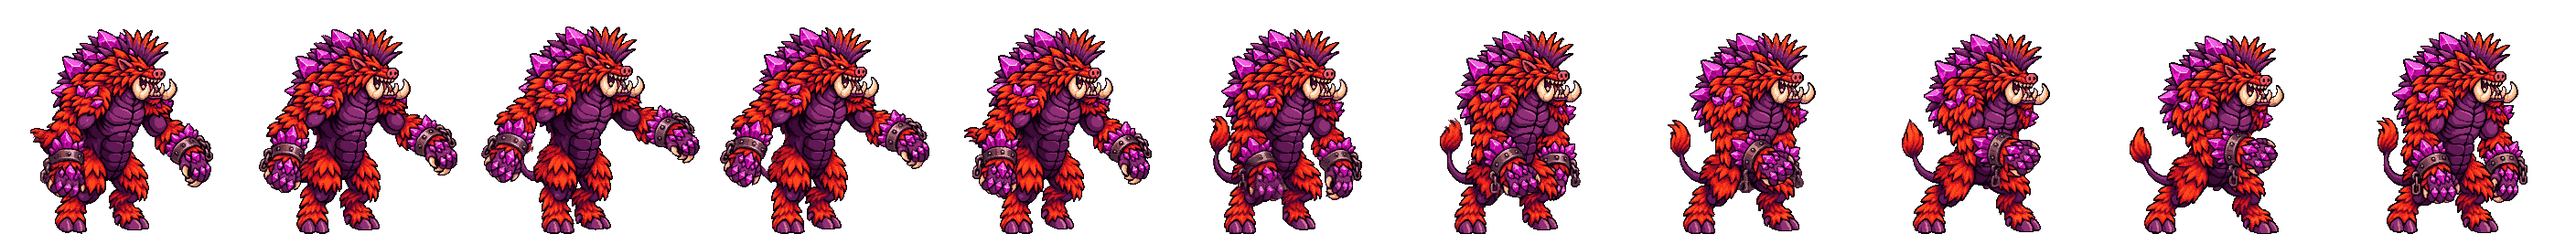
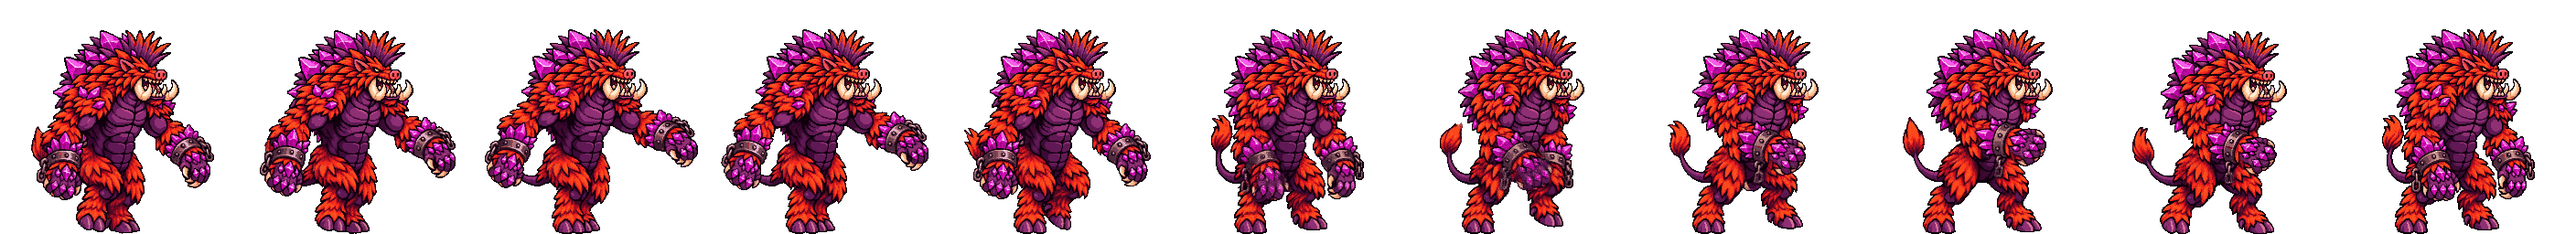
Fix Kaiban Stage 3 walk limp: full step cycle for both feet
The legs were swung about the hips from their rest angles, and the back
leg rests angled backward, so only the front leg made a real stride.
tools/kaiban_s3_walk_poses.py now gives each foot a step cycle under its
hip (planted and sliding back along the ground, then lifted and carried
forward), half a cycle apart and opposite the same-side arm, with knees
from two-bone IK and the hips sinking at full stride. Arm poses and seed
unchanged. Regenerated with /animate-with-skeleton-v3 (3 generations);
the smeared 11th frame was cut again, so it stays 11 frames at 14 fps.

Claude-Session: https://claude.ai/code/session_01SJ9dCw3Kwpo6mPYRbXH7ph

diff --git a/tools/kaiban_s3_walk_poses.py b/tools/kaiban_s3_walk_poses.py
@@ -1,35 +1,42 @@
 #!/usr/bin/env python3
 """Script the skeleton poses for Kaiban Stage 3's walk (PixelLab /animate-with-skeleton-v3).
 
-Usage: python3 tools/kaiban_s3_walk_poses.py DIR FRAMES ARM_DEG LEG_DEG   (the strip shipped with: DIR 12 45 14)
+Usage: python3 tools/kaiban_s3_walk_poses.py DIR FRAMES ARM_DEG LEG_DEG [STRIDE_PX]   (shipped: DIR 12 45 0 20; LEG_DEG unused)
 
 DIR holds skel.json (the /estimate-skeleton result for kaiban-s3.png; a copy is tools/kaiban-s3-skeleton.json). Writes
 DIR/poses.json ({first, frames}: first_frame_keypoints and one 18-joint skeleton per frame) and DIR/poses_sheet.png, a
 stick-figure preview over the base, so poses can be checked before paying for a generation. Both arms swing +-ARM_DEG
-about the shoulders in opposite phase, the legs stride +-LEG_DEG opposite the arms with a knee bend on the forward swing,
-the body bobs, and the lowest ankle stays on the ground line. Run from the repo root.
+about the shoulders in opposite phase, each foot runs a step cycle +-STRIDE_PX under its hip opposite the same-side arm
+(planted and sliding back, then lifted and carried forward) with knees from two-bone IK, the hips sink at full stride, and the lowest ankle stays on the ground line. Run from the repo root.
 """
 import json, math, sys
 S=sys.argv[1]; N=int(sys.argv[2]); A=math.radians(float(sys.argv[3])); B=math.radians(float(sys.argv[4]))
 kp=json.load(open(f'{S}/skel.json'))['keypoints']
 base={p['label']:[p['x']*256,p['y']*256] for p in kp}; z={p['label']:int(p['z_index']) for p in kp}
 base['LEFT LEG']=[148,244]; base['RIGHT LEG']=[78,244]   # ankles down on the hooves
+STR,H=float(sys.argv[5]) if len(sys.argv)>5 else 20,10   # stride half-length and swing-foot lift, px
+FOOT={'LEFT':140,'RIGHT':92}   # mid-stride foot x under each hip (the three-quarter view keeps them apart)
 def rot(p,c,t):  # swing forward (+x) by t about c, y down
     dx,dy=p[0]-c[0],p[1]-c[1]; return [c[0]+dx*math.cos(t)+dy*math.sin(t), c[1]-dx*math.sin(t)+dy*math.cos(t)]
 frames=[]
 for i in range(1,N+1):
     ph=2*math.pi*i/N; q={k:v[:] for k,v in base.items()}
-    bob=2.5*(1-math.cos(2*ph))/2  # dips twice per cycle (each footfall)... actually rises mid-stride
+    bob=0
     for side,sgn in (('LEFT',1),('RIGHT',-1)):
         t=sgn*A*math.sin(ph)
         sh=q[f'{side} SHOULDER']; el=rot(q[f'{side} ELBOW'],sh,t); wr=rot(q[f'{side} ARM'],sh,t)
         wr=rot(wr,el,0.15*max(t,0))   # forearm leads a little on the forward swing
         q[f'{side} ELBOW'],q[f'{side} ARM']=el,wr
-        # legs opposite to the same-side arm
-        lt=-sgn*B*math.sin(ph); hip=q[f'{side} HIP']
-        kn=rot(q[f'{side} KNEE'],hip,lt); an=rot(q[f'{side} LEG'],hip,lt)
-        bend=math.radians(20)*max(0,-sgn*math.cos(ph))   # knee bends while that leg swings forward
-        an=rot(an,kn,-bend); q[f'{side} KNEE'],q[f'{side} LEG']=kn,an
+        # Legs: each foot runs a real step cycle under its hip, opposite the same-side arm. Stance (half the cycle): planted on
+        # the ground line, sliding back. Swing: lifted and carried forward. Knees come from two-bone IK, bending forward.
+        d=-sgn*STR*math.sin(ph); lift=H*max(0,-sgn*math.cos(ph))
+        hip=q[f'{side} HIP']; L1=math.dist(base[f'{side} HIP'],base[f'{side} KNEE']); L2=math.dist(base[f'{side} KNEE'],base[f'{side} LEG'])
+        hip[1]+=2.5*abs(math.sin(ph))   # hips sink at full stride, rise as the legs pass
+        ft=[FOOT[side]+d,244-lift]; D=min(math.dist(hip,ft),L1+L2-0.5)
+        ux,uy=(ft[0]-hip[0])/math.dist(hip,ft),(ft[1]-hip[1])/math.dist(hip,ft)
+        ang=math.acos(max(-1,min(1,(L1*L1+D*D-L2*L2)/(2*L1*D))))
+        kx,ky=ux*math.cos(ang)+uy*math.sin(ang), -ux*math.sin(ang)+uy*math.cos(ang)   # rotate toward +x (knee forward)
+        q[f'{side} KNEE']=[hip[0]+L1*kx,hip[1]+L1*ky]; q[f'{side} LEG']=[hip[0]+D*ux,hip[1]+D*uy]
     for k in q: q[k][1]-=bob
     # keep the lowest ankle on the ground line
     low=max(q['LEFT LEG'][1],q['RIGHT LEG'][1]); 

diff --git a/README.md b/README.md
@@ -61,7 +61,7 @@ Score is earned points minus actual HP damage penalty, including healed damage. 
 
 **Kaiban Stage 2 art (in progress, registered as `stages[2]`):** `kaiban-s2.png` is a 200x135 base at x=28 (scale 200/256, anchor 128), with `kaiban-s2-idle`/`kaiban-s2-walk` 8-frame loops and the climb set. The light combo is gorilla-style overhead punching, 8-frame 256x192 strips generated with PixelLab from the base shifted 24px left (sprite at x=4, so draw with scale 200/256, anchor 4+128*200/256 = 104) so the forward slams stay in the frame, each ending on that base pose: `kaiban-s2-light1` rears up, swings the near fist overhead and hammers it into the street in front of the snout (impact arc on frame 3, 24 fps); `kaiban-s2-light2` keeps the near fist planted while the far fist comes up behind the head and drops in front of it (dust burst on frame 5, 21 fps; seed 7, the default seed left the arm floating over the back); `kaiban-s2-light3` stands up on the hind legs and double-fist smashes both fists down (dust and streaks on frame 5, 20 fps). Each strip got `fill_pinholes.py`, `remove_specks.py` (MAX 40) and the trailing dust bits off the last frame. The heavy is a tusk uppercut, keeping Stage 1's gore rather than repeating light3's fist smash: one 16-frame generation (seed 7) from the same left-shifted base, ending on it, is cut into `kaiban-s2-heavy-rear` (frames 0-4: hunches low with both fists cocked back, 5 frames at 20 fps) and `kaiban-s2-heavy-slam` (frames 9-15 plus the base: lunging tusk uppercut, slash arc on the first three frames, 8 frames at 16 fps), and `kaiban-s2-heavy-hold` is a 4-frame shudder loop (with breath puffs, 10 fps) generated from the rear's last frame. Timing matches the Stage 1 heavy, so combat is unchanged; rear/slam got `fill_pinholes.py` and `remove_specks.py` MAX 40, the hold MAX 4 so the breath puffs survive. The ranged `kaiban-s2-ranged-stand` (same shifted base, closed on it, seed 7) is a gorilla underhand scoop for the Debris Shotgun: a short lean, then he rises and digs both fists into the street (rubble in the fists on frame 4), heaves them up and forward to fling it on impact frame 5 (18 fps, Stage 1's timing), follows through and settles onto all fours; every detached rock on frames 5-7 was erased (largest shape kept) since the game draws the projectiles, then `fill_pinholes.py` and `remove_specks.py` (MAX 40). The crouched shot still borrows Stage 1's. The jump (unshifted base, `KB2_NATIVE`, seed 7) is `kaiban-s2-jump-rise` (9 frames: crouches on the knuckles and springs off all fours, 24 fps), `kaiban-s2-jump-air` (frames 1-4 of a loop generated from the rise's last frame with it as the end pose, tucked limbs, 8 fps) and `kaiban-s2-jump-land` (5 frames from the same airborne pose to the base: fists-first squash, 20 fps); all bottom-aligned with `bottom_align.py`, then `fill_pinholes.py` and `remove_specks.py` (MAX 40, the landing dust). Grab/carry/throw are 256x256 strips (the base padded to 256 tall with the feet on the bottom row, so `KB2_NATIVE` still lines up) since the overhead lift reaches the top of the frame, all generated without any object: `kaiban-s2-grab` (9 frames, 22 fps, seed 0) dips with the fists at the street, rises onto the hind legs and presses both fists straight up overhead; `kaiban-s2-carry` (4-frame loop from the grab's last frame, closed on it) stands upright straining with the fists up; `kaiban-s2-carry-walk` (8-frame loop, closed the same way) lumbers forward upright on the hind legs; `kaiban-s2-throw` (8 of 9 generated frames, the near-duplicate frame 1 dropped so the swing arcs land on frame 1 as the prop launches on the key press) whips both arms forward and down and drops back onto all fours, ending on the base pose. `hold` points: frames 0-3 of the grab keep the prop on the street in front of the near fist, then they sit on top of the fists. Each strip got `fill_pinholes.py` and `remove_specks.py` (MAX 40). The climb set (256x256, generated from the base dropped into a 256x256 frame) clings upright with the fists gripping the wall line at frame x=168 (the 24-unit hitbox edge at this scale), feet braced on the wall and the snout and tusks up: `kaiban-s2-climb-grab` rears up and jumps onto the wall (seed 5; earlier prompts reached the arms straight out, too wide for the wall line, or hid the face behind an overhead arm), `kaiban-s2-climb` is a hand-over-hand loop closed on the cling pose, `kaiban-s2-climb-punch` draws the near fist back off the wall and drives it in with a smear on impact frame 5, and `kaiban-s2-climb-mantle` hauls over onto the roof and ends on the base pose. PixelLab painted a flat tan wall on the grab, erased by its wall-only colours plus the edge line and band pixels not connected to the body, with the claw shading (which shares the wall's tans) restored left of each row's rightmost body pixel; the later strips drew no wall. The cling pose was generated 37px up the wall, so the climb and punch frames are shifted 53px left onto the wall line and 21px down (as far as the lowest climb step allows), the grab eases into that from the unshifted base pose, and the mantle starts a further 24px back (the game's 0.3-body-width roof slide) easing to 0 by its last frame. Frame counts and fps match Stage 1; every strip got `fill_pinholes.py` and `remove_specks.py` (MAX 40). The Stampede Ultimate is gorilla-style too: `kaiban-s2-ult-roar` (256x256, the base padded to 256 tall like the grab so `KB2_NATIVE` lines up) rises onto the hind legs, fists to the chest, throws the head back and bellows on impact frame 5 (the bellow blast), then drops onto all four knuckles in a low head-down charge stance (9 of a 16-frame generation, frames 0-3,5,7,9-11, 14 fps); `kaiban-s2-ult-pound` is the charge loop, a goring gorilla gallop: head dropped to tusk level with the tusks thrust forward while both arms plant on the knuckles, the body vaults over them and the hind legs swing through, lifting only for the gather (frames 2-8 of a 12-frame generation from the native base, seed 4, which repeats with an exact 7-frame period; prompted with the legs landing close behind the hands, since a long stretched stride ran off the 256px frame), 7 frames at 20 fps, a quick 0.35s stride to keep pace with the faster Stage 2 charge. Both got `fill_pinholes.py` and `remove_specks.py` (MAX 40). The crouch (unshifted base, `KB2_NATIVE`) is `kaiban-s2-crouch-down` (5 frames, seed 7: bends the elbows and knees and drops the chest low on all four knuckles, 135px tall to 110px, 22 fps), `kaiban-s2-crouch` (a 4-frame breathing loop generated from that last frame with it as the end pose, seed 7, 6 fps) and `kaiban-s2-crouch-up` (crouch-down reversed); `fill_pinholes.py` and `remove_specks.py` (MAX 40) on each. `kaiban-s2-ranged-crouch` is the crouched Debris Shotgun scoop: 8 frames at 20 fps (seed 21) from the crouch's first frame shifted 24px left (`KB2_LEFT`), with that pose as the end frame. He stays low (122px at the peak, under the 135px standing pose), rakes both fists into the street on frames 2-3, flicks the rubble forward along the ground on impact frame 4 and drops back into the crouch. Loose rocks erased with `remove_specks.py` (MAX 400), then `fill_pinholes.py`. The Stage 2 form (`KAIBAN_S2` in `src/presentation.ts`, anchors `KB2_NATIVE`/`KB2_LEFT`) sets `borrow: true`: any move it has no strip for plays the Stage 1 strip instead of the form's idle, so every move animates while the set is filled in (the art mixes Stage 1 and Stage 2 designs until then). Stage 3 points at the same form until it gets its own art. Add new Stage 2 strips to `KAIBAN_S2.anims`.
 
-**Kaiban Stage 3 art (just started, registered as `stages[3]`):** `kaiban-s3.png` is the upright crystal-maned form, a 167x224 base at x=44 in a 256x256 frame (scale 167/256, anchor 98.5; the tall frame leaves headroom for raised fists). The render's pixel grid is 5.375px square; it was median-sampled down to 224 rows. `kaiban-s3-idle` (8 frames, 8 fps) is a 256x256 PixelLab text-animation strip from the base (base as first and last frame so it loops), then fill_pinholes/remove_specks. `kaiban-s3-walk` (11 frames, 14 fps) is a skeleton animation (`/animate-with-skeleton-v3`, 3 generations): text prompts kept producing a single arms-out gesture, so `tools/kaiban_s3_walk_poses.py` scripts 12 poses from the estimated skeleton (ankles moved down onto the hooves), with both arms swinging +-45 degrees about the shoulders in opposite phase and the legs striding opposite the arms. One smeared frame was cut; the last two frames were bottom-aligned (2px). Form width 80 (about 300px tall at Stage 3); every other move holds the idle and borrows the base form's timing until its strip exists.
+**Kaiban Stage 3 art (just started, registered as `stages[3]`):** `kaiban-s3.png` is the upright crystal-maned form, a 167x224 base at x=44 in a 256x256 frame (scale 167/256, anchor 98.5; the tall frame leaves headroom for raised fists). The render's pixel grid is 5.375px square; it was median-sampled down to 224 rows. `kaiban-s3-idle` (8 frames, 8 fps) is a 256x256 PixelLab text-animation strip from the base (base as first and last frame so it loops), then fill_pinholes/remove_specks. `kaiban-s3-walk` (11 frames, 14 fps) is a skeleton animation (`/animate-with-skeleton-v3`, 3 generations): text prompts kept producing a single arms-out gesture, so `tools/kaiban_s3_walk_poses.py` scripts 12 poses from the estimated skeleton (ankles moved down onto the hooves), with both arms swinging +-45 degrees about the shoulders in opposite phase, and each foot running a full step cycle (planted and sliding back, then lifted and carried forward, knees from two-bone IK) opposite the same-side arm. One smeared frame was cut; frames that lifted off the ground were bottom-aligned. Form width 80 (about 300px tall at Stage 3); every other move holds the idle and borrows the base form's timing until its strip exists.
 
 **Per-stage forms:** `SPRITES[name]` is the base form (for Mogurodon, the art above is its Stage 2 design, also used for Stage 3); `stages[n]` overrides it for one stage. Inside a stage form a missing strip falls back to that form's own `idle`, while gameplay timing (`animDuration`/`animImpact`) borrows the base strip's, so combat is unchanged until a form's strips are animated. Mogurodon Stage 1 (`assets/mogurodon-s1.png`) is the transparent render keyed with `tools/key_render.py` (grid 9.30x9.095 px per art pixel): a 151x113 native sprite at x=52, feet on the bottom row of a 256x192 frame. All 25 Stage 1 strips are generated from it with PixelLab and registered with `S1_NATIVE` (scale 151/256, anchor 127.5); frame counts, fps and impact frames match the previous art. The old padded bases (`mogurodon-s1-pad.png`, `mogurodon-s3-pad.png`) and `S1_PAD` are gone. Moves: idle and walk loops; light combo near (left) paw swipe, far (right) paw swipe (prompted with the near leg pinned so the far paw rises behind the head and slashes across) and lunge-bite; heavy rear/slam cut from one 16-frame generation (rear 0-4, slam 8-15) plus a hold loop from the peak; no tail, so the ranged shot arches the back like a hissing cat with the quills bristling (standing and crouched); crouch down/loop/up; jump rise, a 4-frame airborne gallop (frames 1-4 of its generation) and landing; Seismic Rupture howl (9 of 17 frames, 0,2,3,6,9,12,13,14,16, crash with the dust burst on impact frame 5) and a two-paw pound loop; climb with the gripping paws on the wall line at frame x=158 (PixelLab painted a thin brown post at x=215, erased with `post.py`-style column detection since the paws cut it into short pieces; the mantle starts 18px back and eases to 0); grab, carry and carry-walk with per-frame `hold` points (grab frame 7 holds at the forward paws mid-lift) and a throw generated without any object. Gold eye restored against the base plus crouch, heavy-peak and Ultimate-pose references; the reared carry pose tips the head back behind the arms, so carry frames have no eye. Add strips to `stages[1].anims`. Mogurodon Stage 3 (`assets/mogurodon-s3.png`) is the transparent render keyed with `tools/key_render.py`, which measures the render's real pixel grid (about 8.055x7.77 px per art pixel, offset) and keys by alpha, so the sprite keeps its outline and comes out at native resolution: 173x134 at x=41, feet on the bottom row of a 256x192 frame. Every Stage 3 strip is generated from it with PixelLab and registered with `S3_NATIVE` (scale 173/256, anchor 127.5) so it draws at the old width and foot position; frame counts, fps and impact frames match the previous art, so combat timing is unchanged. (The previous base was keyed from a black-background render by brightness on an assumed 8px grid, which ate the outline and joint creases and doubled pixels unevenly; every strip inherited the gaps.) Idle and walk are loops closed with the base as first and last frame. Light combo: near-arm (left) strike with a short pink streak, swipe with the other arm: the arm hanging against the chest winds back behind the body, arcs over and slashes forward past the snout with a pink arc while the leading arm stays put (generated with the base as the last frame so it settles back; earlier versions swung the leading arm again with a floating extra fist behind the head), low lunge-bite. Heavy: one 17-frame rear-and-slam generation cut into `heavy-rear` (frames 0-4) and `heavy-slam` (frames 8-14 and 16: crash with dust and crystal shards, settle), plus a 4-frame `heavy-hold` from the peak pose (re-rolled: a "trembling" prompt scattered dark specks). The reared peak touches the top of the 192px frame. Jump: rise, 4-frame air loop from its last frame and landing, bottom-aligned, landing debris stripped. Ranged: tail whips over the back; the detached shard PixelLab drew (it flew backwards) is erased since the game draws the projectile; the crouched shot flicks the tail while staying flat. Crouch: crouch-down, breathing loop from its last frame, crouch-up = crouch-down reversed. Climb (256x256): PixelLab paints a wall even when told not to; `tools/remove_wall.py` and a wall-line pass erase it, and the wall frames are shifted so the gripping claws sit on the wall line at frame x=162 (hitbox edge, 24 world units from the origin). The mantle starts a further 21px back (the game slides him 0.3 body widths onto the roof) and eases to 0 by its base-pose last frame. Ultimate: the roar is 8 of a 17-frame generation (frames 0,1,2,4,9,11,13,16) so the crash into the crystal eruption lands on impact frame 5; the 16-frame pound loop slams the near claw then the far claw with dust and sparks. Grab/carry/throw: the grab scoops then rears with both claws overhead (a rock PixelLab drew in frame 1 is erased); carry and carry-walk loop from its last frame and the throw ends on the base pose. Grab, carry and carry-walk have per-frame `hold` points measured on the fists. PixelLab washes the gold eye out after frame 0, so `tools/fix_eye.py` restores it against the base and, for frames it cannot match, against wide-search references for the crouch, carry and heavy-peak poses; `--max-err 9000` skips frames where the head is turned or hidden (grab scoop frames 2-5, the upright roar, the head-down pound loop). Every strip then gets `fill_pinholes.py` and `remove_specks.py`. Request PixelLab frame counts in multiples of 4 (the strip gets the input frame plus that many). Add further strips to `stages[3].anims`. `tools/prep_form_base.py` keys a black-background render and fits it into a frame for that.
 
